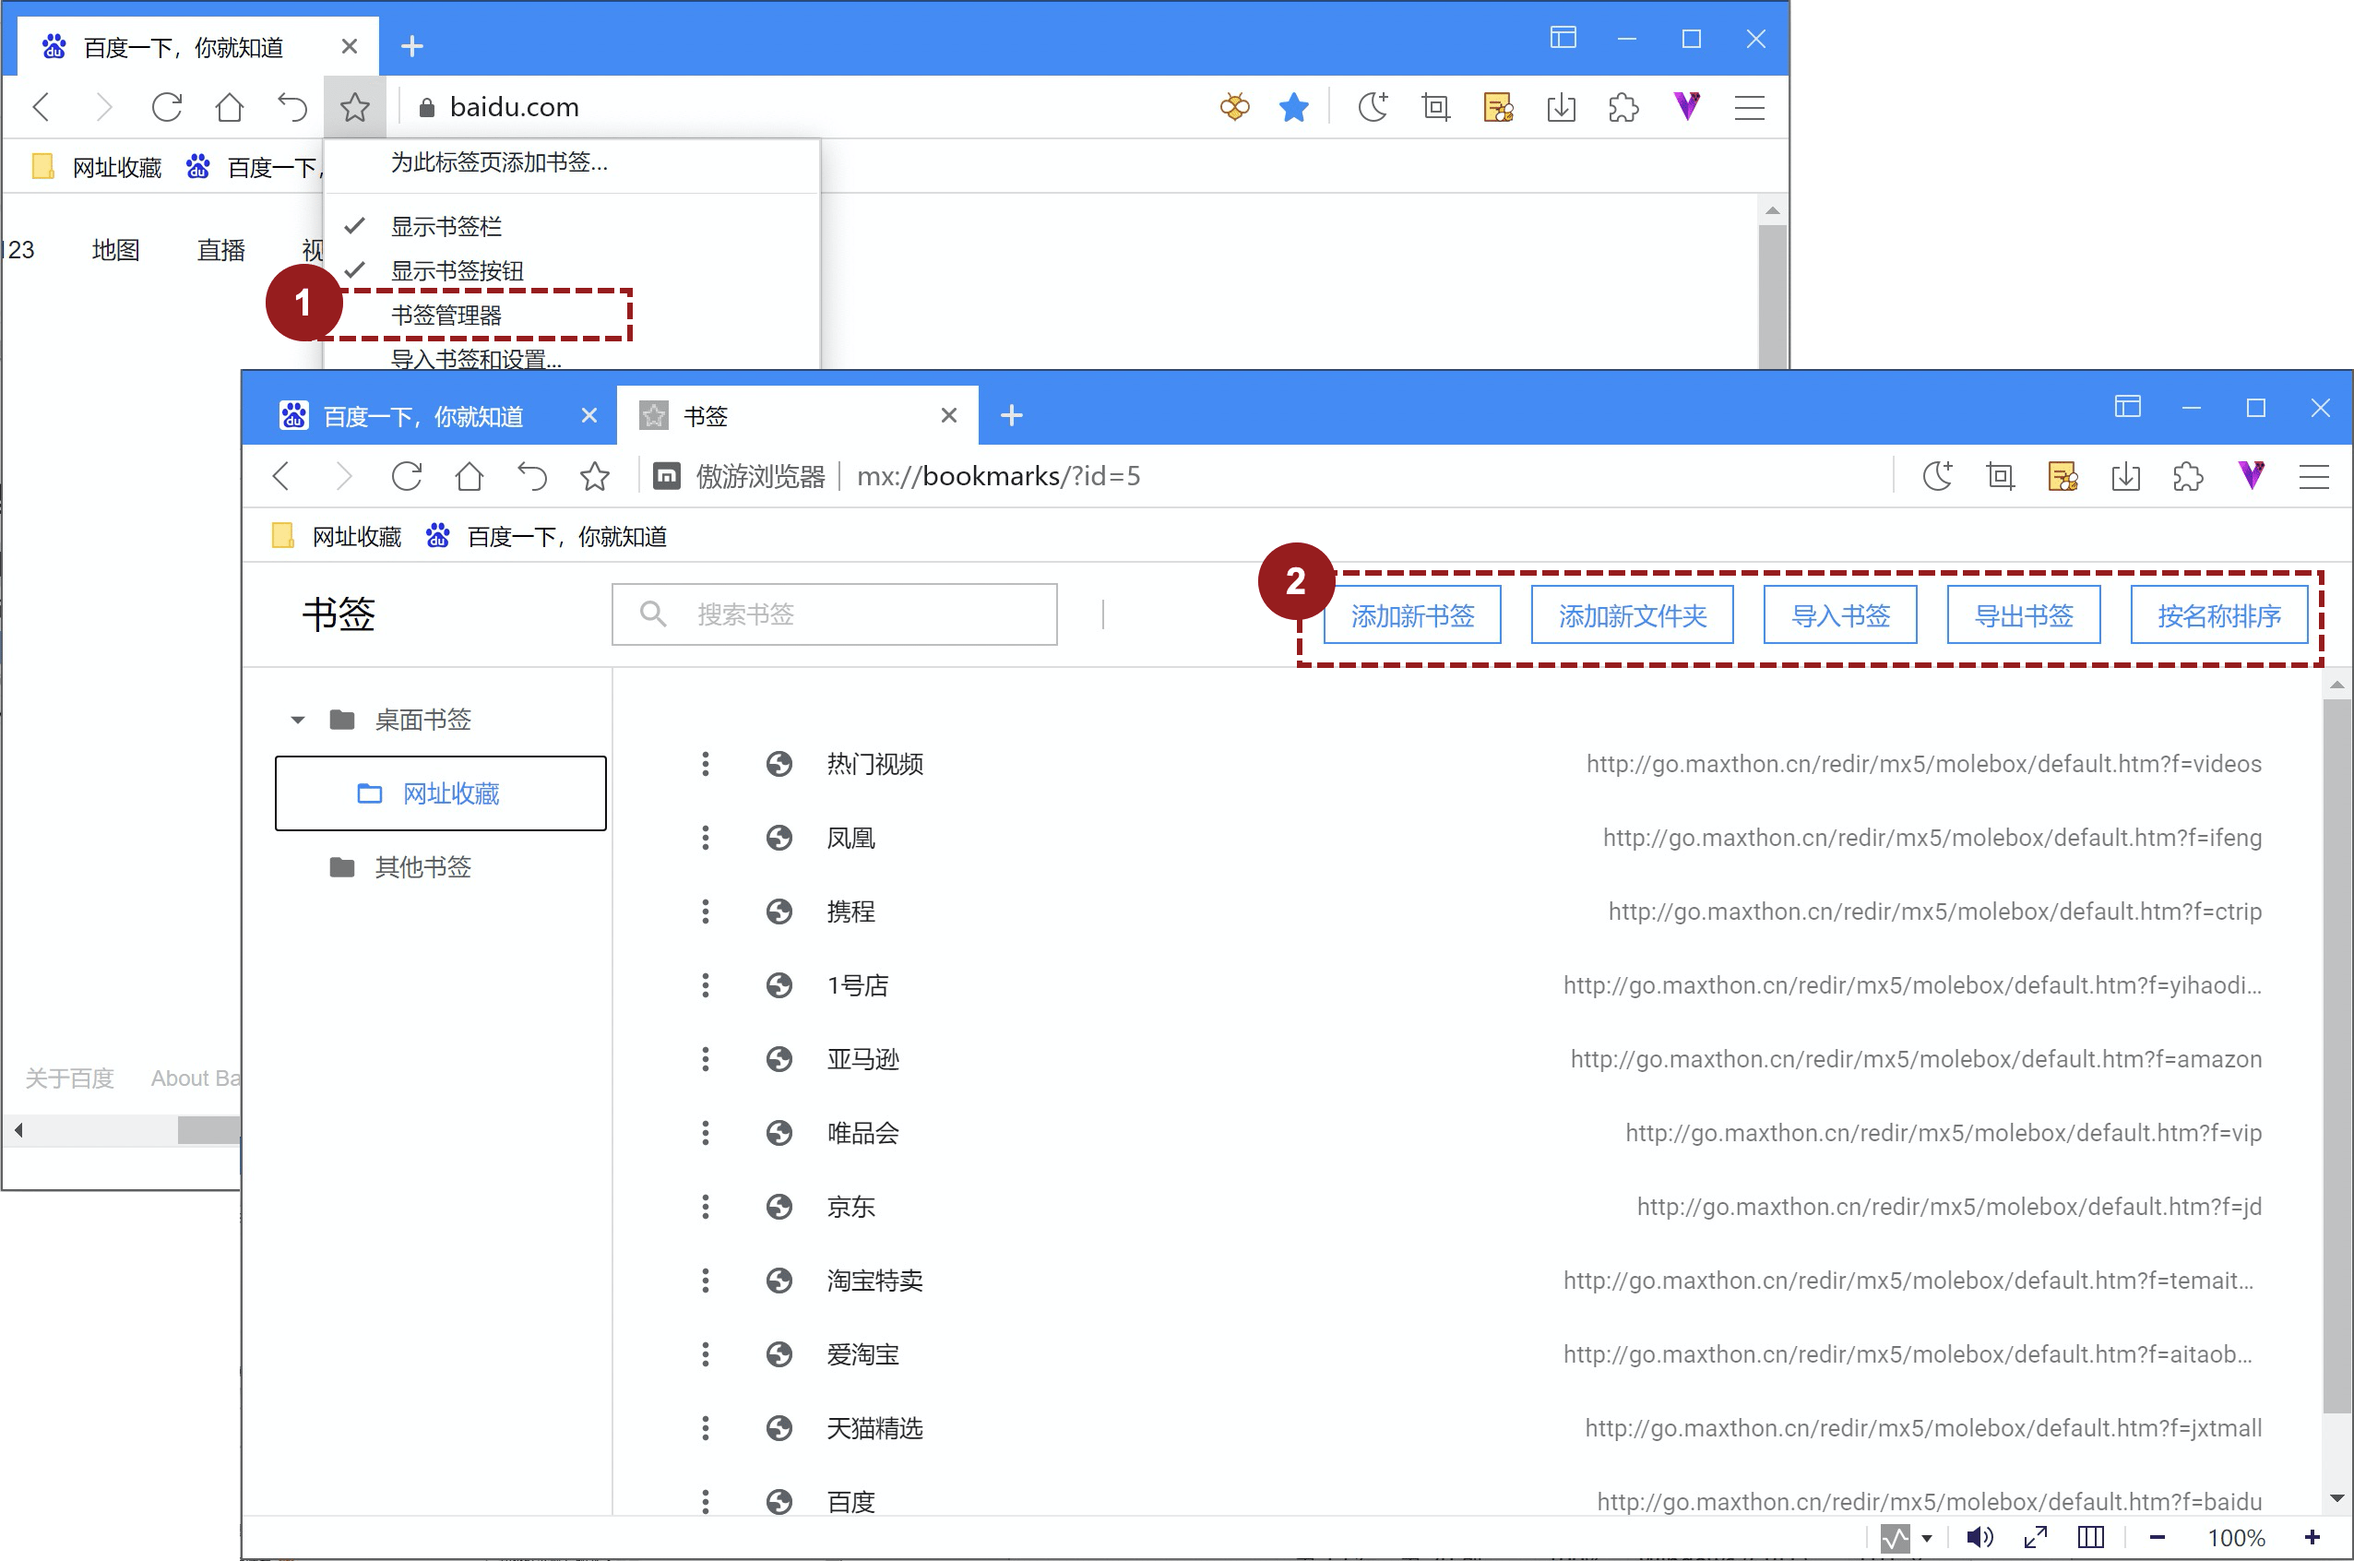
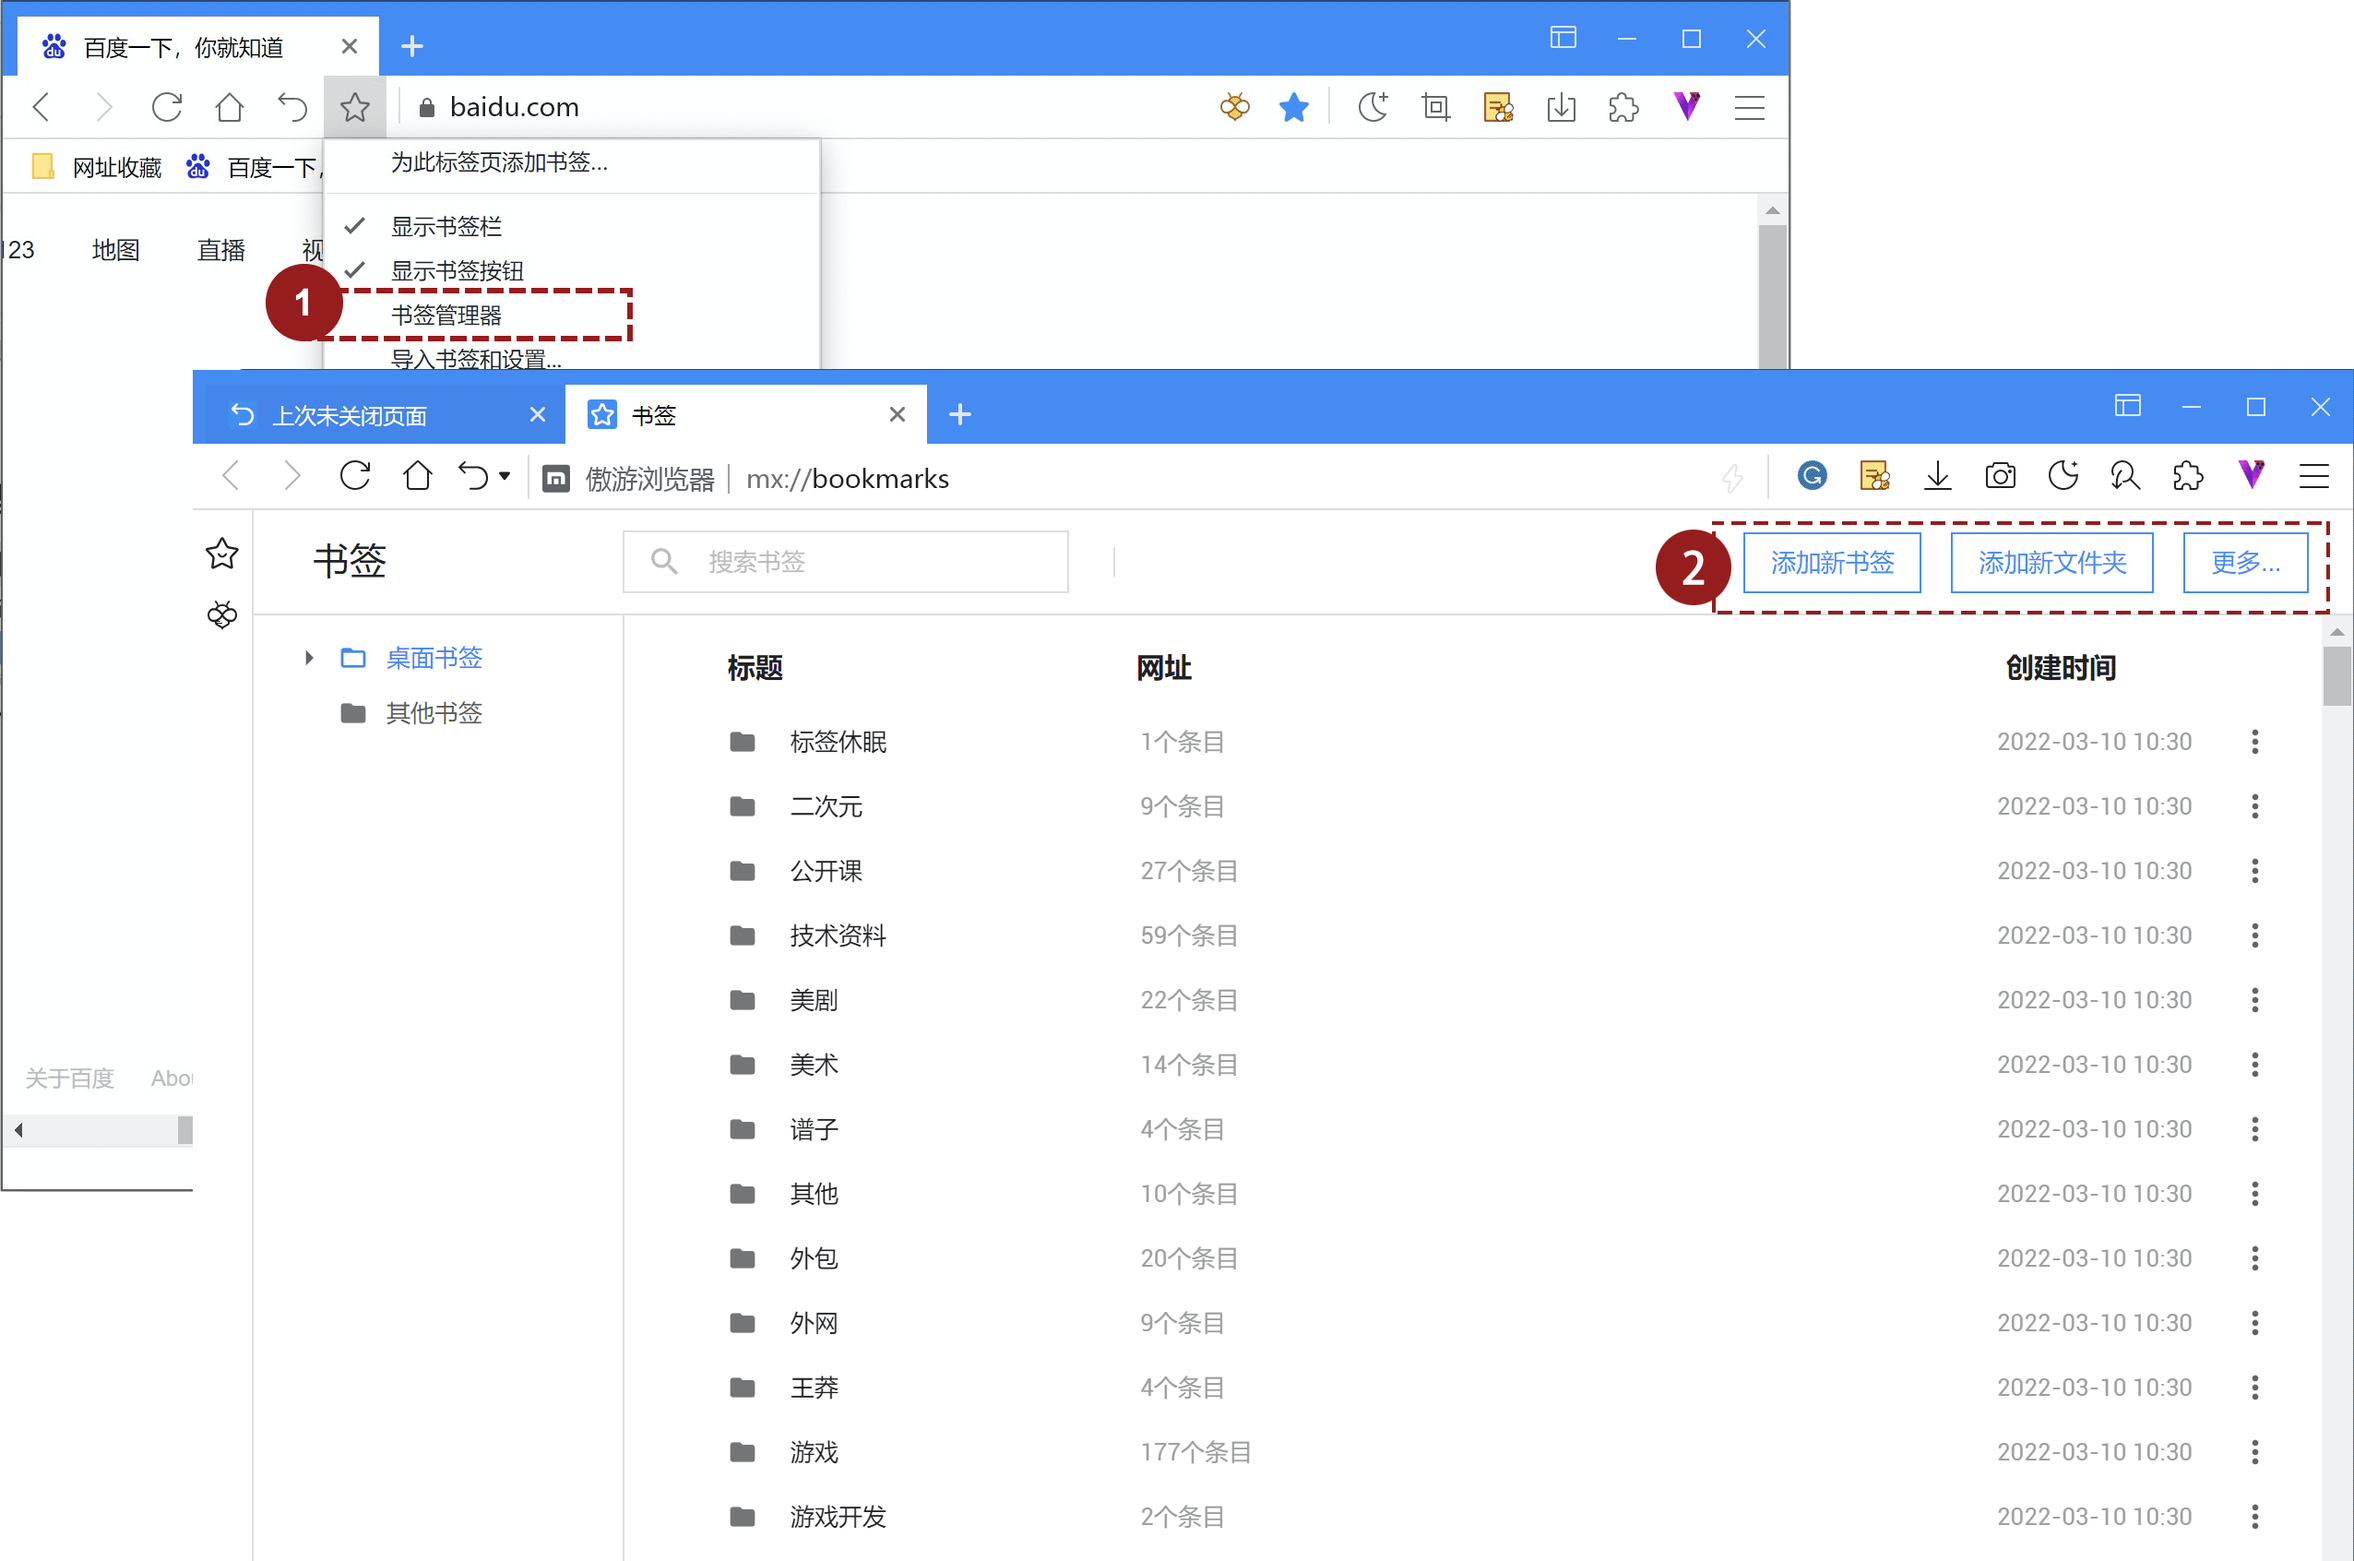
help doc update

diff --git a/zh/whatsnew.md b/zh/whatsnew.md
@@ -11,7 +11,7 @@
 
 另外，Maxthon 还引领潮流，新增了区块链玩法。您可以在<font color=#0062CC>[区块链身份管理工具 Vbox](11-vbox)</font> 中管理您的加密货币钱包或者直接创建一个 BSV 公链上的 Vbox 身份。Vbox 还可绑定全球首款<font color=#0062CC>[区块链域名 NBdomain](11-vbox?id=-申请免费nb域名)</font>，使用手机号即可免费注册自己的域名，不再需要每年支付域名费用。还有更多区块链小应用，您可以和您的朋友一起体验新潮的链上生活。
 
-在Maxthon 中，部分传统功能做出了调整和更新。傲游笔记更新了<font color=#0062CC>[极简笔记](09-fastnote)</font>功能，原傲游笔记中的网址收藏单独独立成<font color=#0062CC>[书签](07-bookmark)</font>模块，并添加了管理页面。此外，菜单项、历史记录、下载管理页面也做了一些展示上的改变，更加简洁易用。
+在Maxthon 中，部分传统功能做出了调整和更新。傲游笔记更新了<font color=#0062CC>[极简笔记](09-fastnote)</font>功能，原傲游笔记中的网址收藏独立成<font color=#0062CC>[书签](07-bookmark)</font>模块，并添加了管理页面。此外，菜单项、历史记录、下载管理页面也做了一些展示上的改变，更加简洁易用。
 
 最后，Maxthon 仍在不断更新和完善中，任何您使用上的不便都是我们不断努力的动力。挑剔的用户永远是Maxthon的宝藏。如果遇到使用上的问题，可以随时[反馈](https://www.maxthon.cn/mx/bug/post/)或[联系我们](https://www.maxthon.com/contact/)，我们将会及时回复并尽最大的可能满足您的需要。
 
@@ -27,7 +27,7 @@ Maxthon 新增了很多特色功能，包括
 
 ![插件中心](images/插件中心.gif "=85%,85%")
 
-全新的Maxthon 支持所有 chrome 插件，在开发者模式下，您还能够开发并调试您自己的插件。您可以在 [**chrome 插件中心**](https://chrome.google.com/webstore/category/extensions)直接安装插件到Maxthon。中国大陆境内的用户可以在[**Maxthon插件中心**](https://webstore.maxthon.cn/)下载您所需的插件。
+全新的Maxthon 支持所有 chrome 插件，在开发者模式下，您还能够开发并调试您自己的插件。如果您登录傲游账户，傲游还可以同步您账号中的插件。您可以在 [**chrome 插件中心**](https://chrome.google.com/webstore/category/extensions)直接安装插件到Maxthon。中国大陆境内的用户可以在[**Maxthon插件中心**](https://webstore.maxthon.cn/)下载您所需的插件。
 
 更多关于插件的介绍请查看[**使用拓展应用**](12-extend)
 
@@ -73,11 +73,6 @@ Maxthon 提供了三种进入隐身模式的方式，分别为主菜单开启隐
 
 ![打开资源嗅探器](images/资源嗅探器.gif "=85%, 85%")
 
-### 侧边栏下线
-
-Maxthon6 下线了Maxthon5 中的侧边栏功能区，笔记和收藏仍然保留，网址收藏独立为书签页，可在书签管理(mx://bookmarks/) 页面中进行编辑。傲游笔记(mx://note/)仍然可以从主菜单按钮进入。侧边栏中的 RSS 订阅功能改为添加拓展程序支持。
-
-更多关于傲游笔记的功能请查看[**使用傲游笔记**](08-mxnote)
 
 ### 密码大师
 

diff --git a/zh/07-bookmark.md b/zh/07-bookmark.md
@@ -4,7 +4,7 @@
 
 ## -在访问网页时快速的添加、查看和修改书签
 
-您在浏览任意网页时，可以通过地址栏![](images/07-1.png)，快速的添加当前网页至书签。
+您在浏览任意网页时，可以通过地址栏![](images/07-1.png)，快速的添加当前网页至书签。您也可以使用快捷键添加书签，Maxthon 默认的快捷键是 Ctrl + D
 
 ![](images/07-1.gif)
 
@@ -37,11 +37,11 @@
     - 进显示图标
     - 显示标题和图标
 
-
+- 在书签栏删除书签后，如果需要撤销，可以在10秒内点击浏览器右下角撤销框中，对删除操作撤销。
 
 ## -书签菜单与书签按钮的切换
 
-除了书签栏，Maxthon化提供两种快速访问书签的方法：使用主菜单书签菜单，及使用书签按钮。当显示书签按钮时，主菜单的书签选项将被隐藏。
+除了书签栏，Maxthon化提供三种快速访问书签的方法：使用主菜单书签菜单、使用书签按钮，以及使用侧边栏书签。当显示书签按钮时，主菜单的书签选项将被隐藏。
 
 ![](images/07-5.gif)
 
@@ -59,6 +59,7 @@
 - 导入书签
 - 导出书签
 - 按名称排序：排序调整将影响全部书签显示位置的排序
+- 站点检测
 
 
 
@@ -179,8 +180,13 @@
 ![](images/07-21.png "=85%,85%")
 
 
+#### <font color=#0062CC>-站点检测</font>
 
+在书签管理页面右上角点击更多按钮，选择站点检测。点击开始检测，将遍历您的所有书签，并自动选择无法打开失效网页。
 
+*请注意，如果您当前的网络状态无法连接至国外的一些网站，请将这些网站的勾选取消，以免造成误删。
+
+![](images/07-23.png "=85%,85%")
 
 
 

diff --git a/zh/02-privacy.md b/zh/02-privacy.md
@@ -10,9 +10,11 @@ Maxthon# 云同步与个性化设置
 
 ![](images/02-1.png "=85%,85%")
 
-<font color=#A30014>*注意①：如果您已经拥有一个傲游云账户，初次登录 Maxthon 时，会自动将 Maxthon5 中的数据导入新版Maxthon中，此时傲游云账户中同时存在 Maxthon 5 和新版 Maxthon 的数据，且互不影响。</font>
+<font color=#A30014>*注意①：如果您已经拥有一个傲游云账户，初次登录 Maxthon 时，会自动将 Maxthon5 中的数据导入新版 Maxthon中，此时傲游云账户中同时存在 Maxthon 5 和新版 Maxthon 的数据，且互不影响。</font>
 
-<font color=#A30014>*注意②：如果您在不同的终端同时使用Maxthon5和新版Maxthon，需要注意即使使用相同的云账户，但 Maxthon5 和新版 Maxthon 彼此数据并不互通。</font>
+<font color=#A30014>*注意②：如果您在不同的终端同时使用 Maxthon5和新版 Maxthon，需要注意即使使用相同的云账户，但 Maxthon5 和新版 Maxthon 彼此数据并不互通。</font>
+
+<font color=#A30014>*注意③：由于 Maxthon5 和新 Maxthon 使用的浏览器内核不同，Maxthon5 中的拓展程序和设置项不能同步至 新版。</font>
 
 登录傲游云账户后，在【设置/基本设置】的傲游云账户中，提供了针对不同情况的功能：
 

diff --git a/zh/09-fastnote.md b/zh/09-fastnote.md
@@ -19,7 +19,7 @@
 1. 极简笔记可通过拖拽边缘缩放至您满意的大小，还可以点击目录边缘的隐藏/展开![](images/09-6.png)图标，隐藏目录，全屏编辑笔记。
 2. 常规模式下，笔记激活后失去焦点即自动关闭，如果你想要笔记始终显示，可点击右上角置顶![](images/09-4.png)按钮；再次点击取消置顶。
 3. 如果你想在傲游笔记中阅读某一条笔记，可以对该笔记使用右键菜单，选择【在笔记中访问】，即可在标签页中访问该笔记，您还可以通过右键菜单执行【重命名】和【删除】操作；
-4. 您还可以点击右上角的遨游笔记![](images/08-2.png)图标，跳转至傲游笔记管理界面。
+4. 您还可以点击右上角的傲游笔记![](images/08-2.png)图标，跳转至傲游笔记管理界面。
 
 
 

diff --git a/zh/00-introduction.md b/zh/00-introduction.md
@@ -14,7 +14,7 @@ Maxthon在新标签页预设了一些常用链接，鼠标悬浮可以修改/删
 
 ## -在统一的地址栏搜索一切
 
-无论是网址还是搜索关键字，地址栏都自动匹配处理。Maxthon的统一搜索和地址栏能根据现有的书签、标签、历史、已开标签页和搜索热度给你匹配建议。您还可以通过设置更改默认搜索引擎 。    
+无论是网址还是搜索关键字，地址栏都自动匹配处理。Maxthon的统一搜索和地址栏能根据现有的书签、标签、历史、已开标签页和搜索热度给你匹配建议。您还可以通过设置更改默认搜索引擎，或在新标签页的默认搜索框里进行切换。
 
 ![address blank](images/00-2.png)
 

diff --git a/zh/06-download.md b/zh/06-download.md
@@ -46,7 +46,10 @@
 - 启用【快捷图片保存】功能
   - 在设置页面，选择【基本设置】标签，勾选【按住Ctrl键点击页面图片时，可快速保存该图片】选项。
   - 可自定义快捷图片保存路径
-  - 可选择文件同时是自动更名保存或直接覆盖文件。
+  - 可选择文件同时是自动更名保存或直接覆盖文件。 
+
+- 截图快捷保存
+  - 启用快捷图片保存后，在截图界面按住Ctrl键点击保存按钮，即可将截图保存至快速保存路径。
 
 
 #### <font color=#0062CC>-网页保存</font>

diff --git a/zh/08-mxnote.md b/zh/08-mxnote.md
@@ -154,9 +154,13 @@
 - 点击同步按钮也可手动激活一次同步。
 
 
+## - 使用笔记侧边栏
 
+- 在界面设置中打开侧边栏后，可以点击侧边栏上的蜜蜂按钮，打开笔记侧边栏。
+- 在笔记侧边栏中点击网址类型可以直接打开笔记中的网址。
+- 笔记类型可以在下方的简易编辑框中编辑
 
-
+![](images/08-40.png "=85%,85%")
 
 
 
